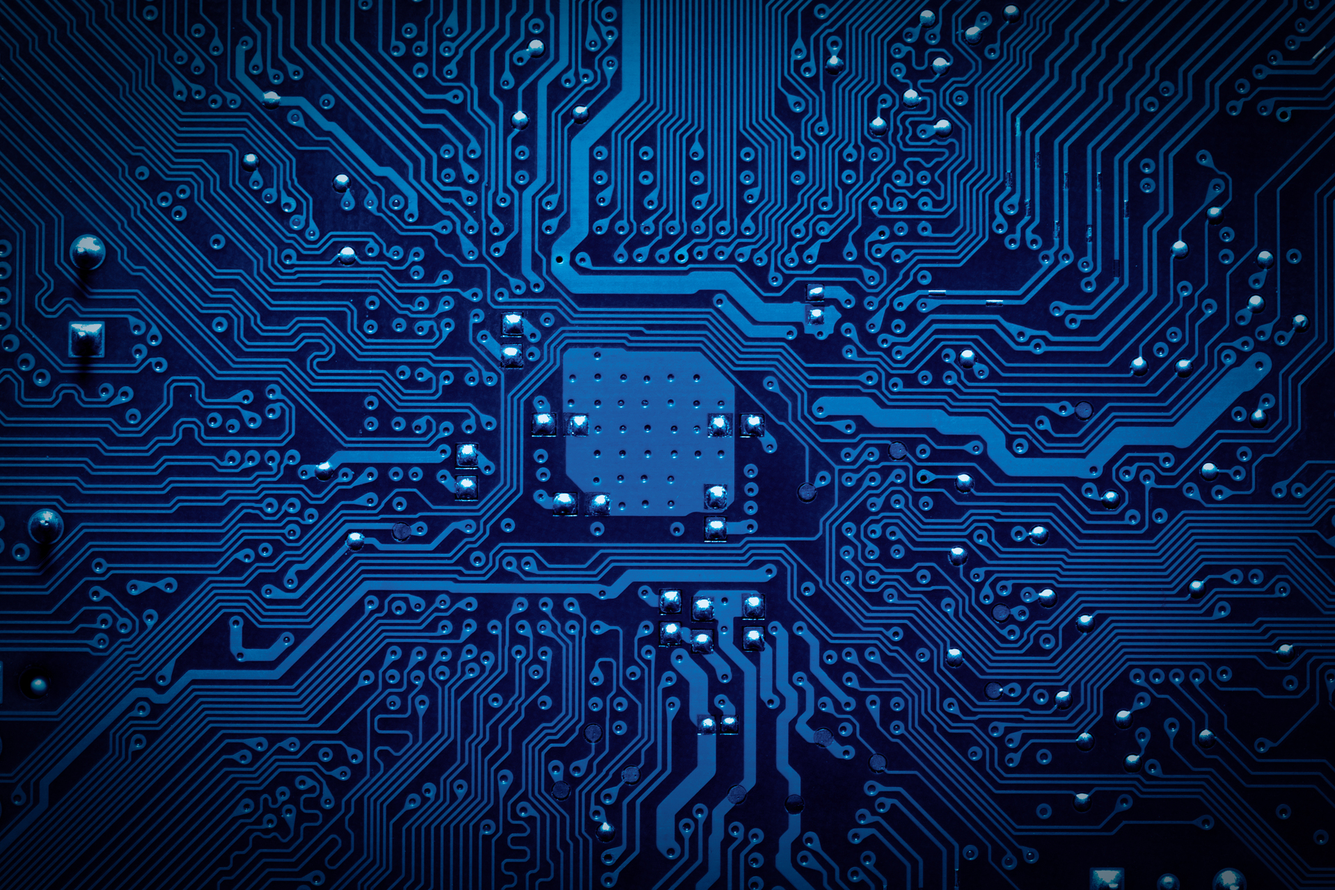
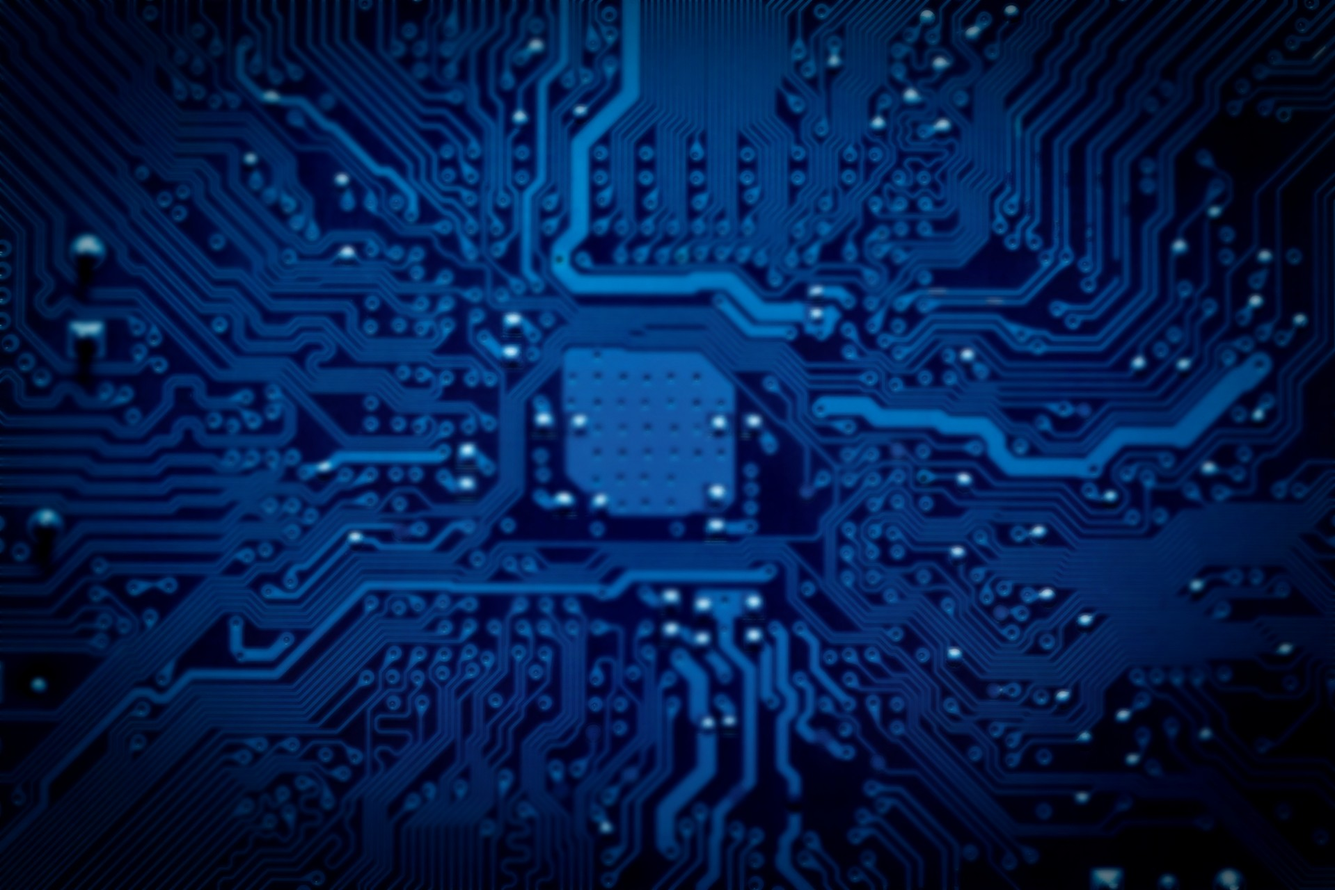
Add bg image in CamView component with blur, is order to focus user view

diff --git a/src/stylesheets/layout/CamView.scss b/src/stylesheets/layout/CamView.scss
@@ -14,8 +14,8 @@
 	background-attachment: fixed;
 	background-image: linear-gradient(
 			to bottom,
-			rgba(0, 0, 0, 0.6) 30%,
-			rgba(0, 0, 0, 0.3) 85%
+			rgba(0, 0, 0, 0.6) 25%,
+			rgba(0, 0, 0, 0.4) 80%
 		),
 		url(../../images/chip_bg.jpg);
 
